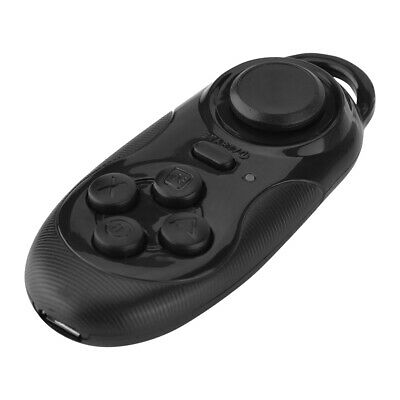
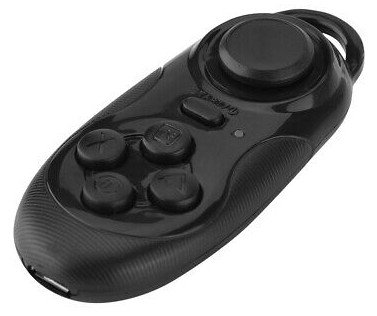
engine-driver.rst
more fixes and and cropping the images

Changed region(s): [[0.0292, 0.0285, 0.992, 0.9684], [0.4085, 0.4842, 0.496, 0.5127], [0.2918, 0.5411, 0.3501, 0.5696]]

diff --git a/docs/throttles/engine-driver.rst b/docs/throttles/engine-driver.rst
@@ -88,15 +88,15 @@ Screenshots
 Operation
 ===========
 
+https://enginedriver.mstevetodd.com/operation
+
+https://enginedriver.mstevetodd.com/videos
 
 .. TODO:: Give some setup tutorial here. Need a video to match since ED is the top used software
 
-Footnotes
----------
-.. [#] the Web server is required if you want to show the Loco images in Engine Deiver.
-
 Using a Bluetooth Controller
 =============================
+This is the one Steve Todd uses himself on a lanyard. It leaves both hands free for paperwork and uncoupling and is light enough to simply let go of when you need both hands. Here are his optimized settings. You can use these as a start and customize them for your own use:
 
 .. image:: ../_static/images/throttles/bt_controller1.jpg
    :alt: Bluetooth Lanyard Controller
@@ -105,7 +105,17 @@ Using a Bluetooth Controller
 
 `Wireless Bluetooth Gamepad/Joystick Controller <https://www.ebay.com.au/itm/Wireless-Controller-Rechargeable-Selfie-Remote-Shutter-Gamepad-Joystick-/174852677119>`_
 
-This is the one Steve Todd uses himself on a lanyard. It leaves both hands free for paperwork and uncoupling and is light enough to simply let go of when you need both hands. Here are his optimized settings. You can use these as a start and customize them for your own use:
+|
+And here is another Bluetooth controller that provides extra function buttons and you can hold by placing your finger in the ring.
+
+.. image:: ../_static/images/throttles/bt_controller2.jpg
+   :alt: Ring Shape Hand Controller
+   :scale: 50%
+   :align: center
+   
+`Walmart <https://www.walmart.com/ip/Gamepad-Ring-Shape-Wireless-VR-Joystick-Rechargeable-Bluetooth-compatible-V4-0-Game-Controller/443871148?wmlspartner=wlpa&selectedSellerId=101036302>`_
+
+`AliExpress <https://www.aliexpress.com/wholesale?catId=0&initiative_id=SB_20220515220821&isPremium=y&SearchText=%22r1%22+bluetooth+game+controller&spm=a2g0o.productlist.1000002.0>`_
 
 .. Note:: From Steve: I set speedsteps to 10, change amount to 1, repeat delay to 9999, horizontal switching layout, throttle web view. I acquire loco/consist using my phone, then dim & lock and put phone in my holster. Then I can "bump" the joystick up and down 3,2,1,0,-1,-2,-3, easily keeping track of the current "notch". 1 is coupling speed, 2 is switching/yard speed, 3 is mainline. If I'm at home, I put the Conductor view in the web and I have my work for each location.
 
@@ -114,11 +124,8 @@ This is the one Steve Todd uses himself on a lanyard. It leaves both hands free 
    :scale: 15%
    :align: center
 
-And here is another Bluetooth controller that provides extra function buttons and you can hold by placing your finger in the ring.
+====
 
-.. image:: ../_static/images/throttles/bt_controller2.jpg
-   :alt: Ring Shape Hand Controller
-   :scale: 50%
-   :align: center
-   
-https://www.walmart.com/ip/Gamepad-Ring-Shape-Wireless-VR-Joystick-Rechargeable-Bluetooth-compatible-V4-0-Game-Controller/443871148?wmlspartner=wlpa&selectedSellerId=101036302
+Footnotes
+---------
+.. [#] the Web server is required if you want to show the Loco images in Engine Deiver.
